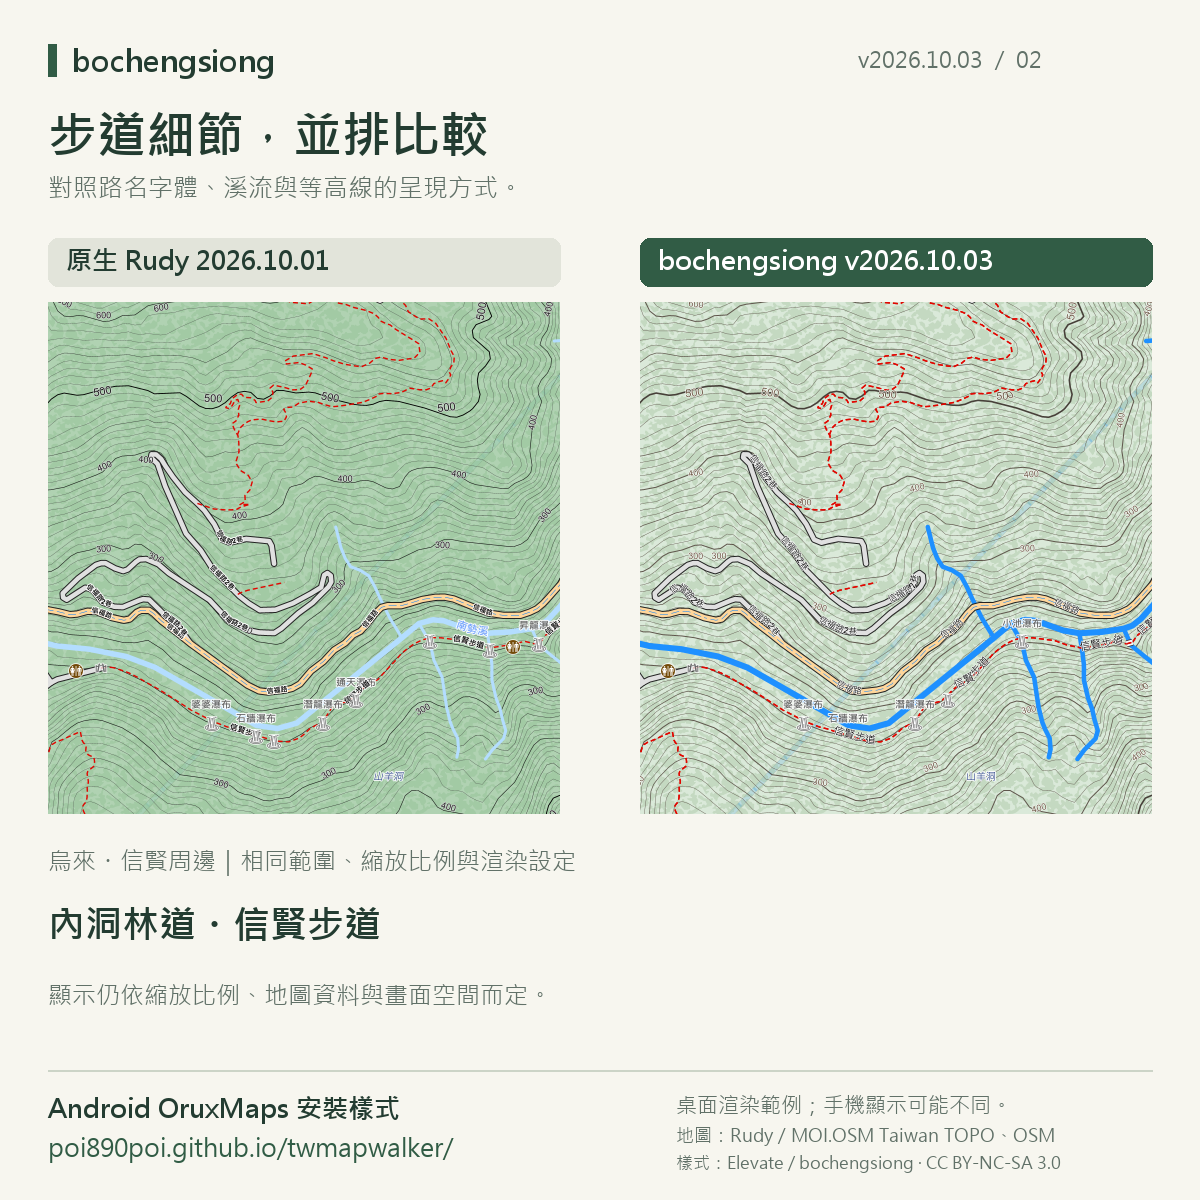
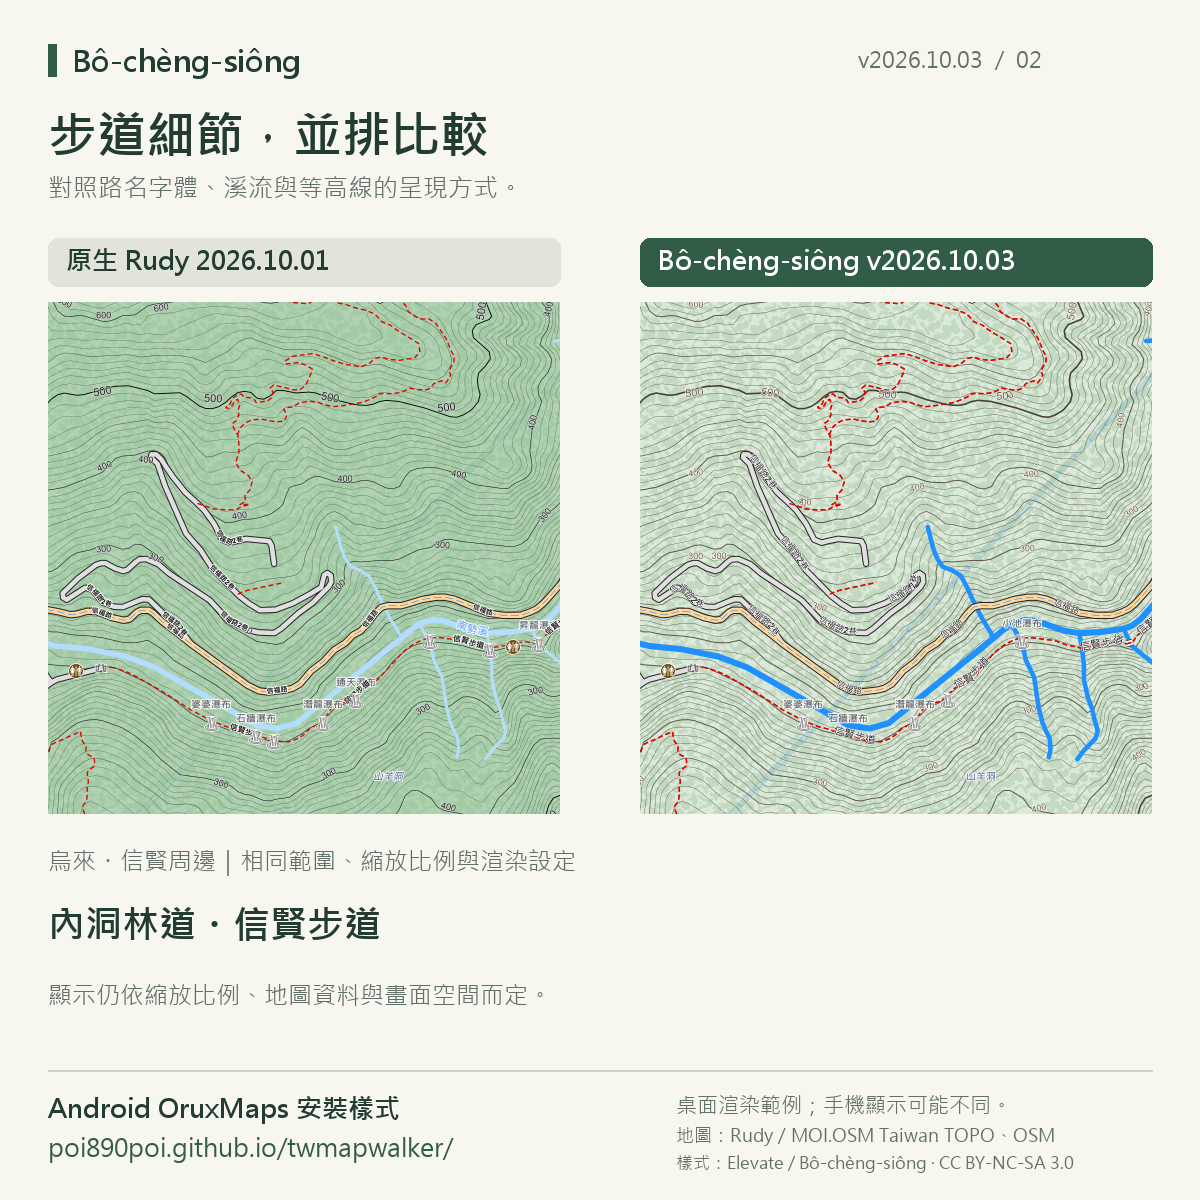
Add tone marks to Bo-cheng-siong release artwork
Type: release typography correction. Impact: Bô-chèng-siông tone marks in both requested public cards, release text and page labels. Scope: presentation assets only; original map pixels, v2026.10.03 and theme ZIP unchanged. Risk: missing glyphs or clipping; both composed cards visually inspected. Artifact review: six deliberately selected public product files, 3,973,045 staged bytes total; two comparison PNG aliases are 1,172,942 bytes each and are the user-requested release artwork. Raw renders and verification outputs excluded. Existing aliases retained for published links.

Changed region(s): [[0.5858, 0.185, 0.8017, 0.2467], [0.6783, 0.9558, 0.8942, 0.9867], [0.0617, 0.0308, 0.2467, 0.0617]]

diff --git a/index.html b/index.html
@@ -1,8 +1,8 @@
 <!doctype html><html lang="zh-Hant"><meta charset="utf-8">
 <meta name="viewport" content="width=device-width,initial-scale=1">
-<meta property="og:title" content="bochengsiong v2026.10.03｜山徑地圖樣式更新">
+<meta property="og:title" content="Bô-chèng-siông v2026.10.03｜山徑地圖樣式更新">
 <meta property="og:description" content="更清楚的路名、淡綠森林與灰色碎石坡。Android OruxMaps 一鍵匯入樣式。">
-<meta property="og:image" content="https://poi890poi.github.io/twmapwalker/release-2026.10.03-native-comparison.png">
+<meta property="og:image" content="https://poi890poi.github.io/twmapwalker/release-2026.10.03-native-comparison.png?name=toned">
 <title>Bô-chèng-siông · OruxMaps 地圖樣式</title>
 <style>
 *{box-sizing:border-box}body{margin:0;background:#f5f8f1;color:#243c2f;font:17px/1.7 system-ui,sans-serif}
@@ -30,16 +30,16 @@ small{display:block;color:#526355}code{overflow-wrap:anywhere;font-size:12px}li{
 <div class="swatch"><div class="paint scree"></div>碎石坡 Scree<small>中性灰底色、稜角石塊紋理</small></div>
 </div><p>圖例直接使用此套樣式的 SVG 紋理。道路名稱的顯示優先順序已提高，保留小字與避讓機制。</p></section>
 <section><h2>v2026.10.03 更新重點</h2>
-<ul><li>同步 Rudy 2026.10.01，保留 bochengsiong 的溪流、等高線與三角點風格。</li>
+<ul><li>同步 Rudy 2026.10.01，保留 Bô-chèng-siông 的溪流、等高線與三角點風格。</li>
 <li>道路與步道名稱改用較精簡的無襯線字體，減少大型重複標籤。</li>
 <li>調整山徑名稱顯示優先度；實際顯示仍依縮放比例與畫面空間而定。</li>
 <li>森林改為淡綠色，與灰色碎石坡更容易區分。</li></ul>
-<p>以下配圖左側為未修改的原生 Rudy 2026.10.01，右側為 bochengsiong v2026.10.03，使用相同地圖資料、範圍與縮放比例。</p>
-<p><a href="release-2026.10.03-native-comparison.png">下載原生 Rudy 對照圖</a> ·
-<a href="release-2026.10.03-native-trails.png">下載步道細節對照圖</a> ·
+<p>以下配圖左側為未修改的原生 Rudy 2026.10.01，右側為 Bô-chèng-siông v2026.10.03，使用相同地圖資料、範圍與縮放比例。</p>
+<p><a href="release-2026.10.03-native-comparison.png?name=toned">下載原生 Rudy 對照圖</a> ·
+<a href="release-2026.10.03-native-trails.png?name=toned">下載步道細節對照圖</a> ·
 <a href="release-2026.10.03-zh-TW.txt">繁體中文發布短文</a></p>
-<img src="release-2026.10.03-native-comparison.png" alt="左：原生 Rudy；右：bochengsiong 的同範圍地圖比較" style="width:100%;height:auto;border-radius:12px">
-</section><section><h2>版本與驗證</h2><p>bochengsiong v2026.10.03 · 上游 Rudy 2026.10.01</p>
+<img src="release-2026.10.03-native-comparison.png?name=toned" alt="左：原生 Rudy；右：Bô-chèng-siông 的同範圍地圖比較" style="width:100%;height:auto;border-radius:12px">
+</section><section><h2>版本與驗證</h2><p>Bô-chèng-siông v2026.10.03 · 上游 Rudy 2026.10.01</p>
 <p>桌面與手機套件共用相同 XML 與圖案；手機字型、DPI 及標籤位置可能不同。尚未完成 OruxMaps 實機畫面驗證。</p>
 <small>ZIP SHA-256</small><code>b92b1f003d09f1cea3d66f2c63858ed174f46f10e9e74e5eb5b36a7f82411db6</code><p><a href="SHA256SUMS">Checksum file</a> ·
 <a href="https://github.com/poi890poi/twmapwalker">GitHub repository</a> ·
